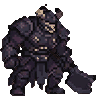
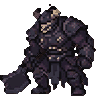
fix(art): 暮色蛮兵立绘水平镜像，修正为朝左面向玩家
a2_brute_dark 原图 3/4 侧身朝右，与「敌人一律朝左面向玩家」的约定相反。
用 tools/flip_enemy_art.py 水平镜像，与已提交的 a2_brute_none 保持一致。
原图备份在 .workbuddy/art_trials/orientation_backup/（不入库）。

怪物与BOSS清单补两行朝向修正记录。

diff --git a/docs/怪物与BOSS美术进度清单.md b/docs/怪物与BOSS美术进度清单.md
@@ -49,8 +49,8 @@
 | ✅ | 锈盲蝠 | `rust_blind_bat` | ACT1 普通 | `idle_01.png` | 96×96 / 56 色（冰锋群蝠族色·扁宽破损） |
 | ✅ | 裂石像 | `cracked_statue` | ACT1 普通 | `idle_01.png` | 96×96 / 71 色（巨石面·无手脚·锯齿巨口·纯石质） |
 | ✅ | 毒孢菌 | `toxin_spore` | ACT1 普通 | `idle_01.png` | 96×96 / 103 色（巨口齿列·流脓版） |
-| ✅ | 暮色蛮兵 | `a2_brute_dark` | ACT2 普通 | `idle_01.png` | 96×96 / 32 色（双角盔·拖地砍刀·去噪） |
-| ✅ | 铁臂蛮兵 | `a2_brute_none` | ACT2 普通 | `idle_01.png` | 96×96 / 27 色（巨铁活塞臂·瘦小另一臂·亮钢骷髅头） |
+| ✅ | 暮色蛮兵 | `a2_brute_dark` | ACT2 普通 | `idle_01.png` | 96×96 / 32 色（双角盔·拖地砍刀·去噪；**2026-11-13 水平镜像**：原图 3/4 侧身朝右，已修正为朝左面向玩家，原图备份在 `.workbuddy/art_trials/orientation_backup/`） |
+| ✅ | 铁臂蛮兵 | `a2_brute_none` | ACT2 普通 | `idle_01.png` | 96×96 / 27 色（巨铁活塞臂·瘦小另一臂·亮钢骷髅头；**2026-11-13 水平镜像**：原图朝右，已修正朝左，备份同上） |
 | ✅ | 圣壳壁垒 | `a2_bulwark_light` | ACT2 普通 | `idle_01.png` | 96×96 / 37 色（哥特拱圣龛·象牙石板+旧金·中央圣光缝） |
 | ✅ | 石壳壁垒 | `a2_bulwark_none` | ACT2 普通 | `idle_01.png` | 96×96 / 43 色（前倾断裂城垛·巨大黑色裂口·铁钉断链） |
 | ✅ | 毒雾术士 | `a2_caster_poison` | ACT2 普通 | `idle_01.png` | 96×96 / 3340 色（**2026-11-12 女性化重画·「引诱」向**·**保留骨白鸟喙面罩**（黑眼洞 + 长弯喙），兜帽后翻、黑长发披肩；**橄榄绿束腰长裙 + 深紫外披 + 左侧高开衩露一腿**（深色袜 + 系带靴）、黄铜圆片腰带、腰间毒瓶；右手提黄铜**香炉**、黄绿浓烟绕胯并在地面铺成贴地毒雾；**左手向玩家伸出、掌心向上作邀请状**（长指黑甲）；暗橄榄 + 深紫 + 骨白 + 黄铜 + 病黄绿 + 暖肤色，meanL 62.4，内容 62×96；**「吸引人靠近」靠姿态与剪裁实现，不靠裸露**（衣着完整）；双手捧炉版（69×96 / 81.7）兜帽压身、诱惑感弱，未采用；与「邪颂祭司」（仰头高举骨匣）、「迷魂灯笼」（悬吊铁笼）器物不冲突；旧 48 占位为 28 色早期量化批，备份在 `.workbuddy/art_trials/du_wu/old_placeholder_48.png`） |
